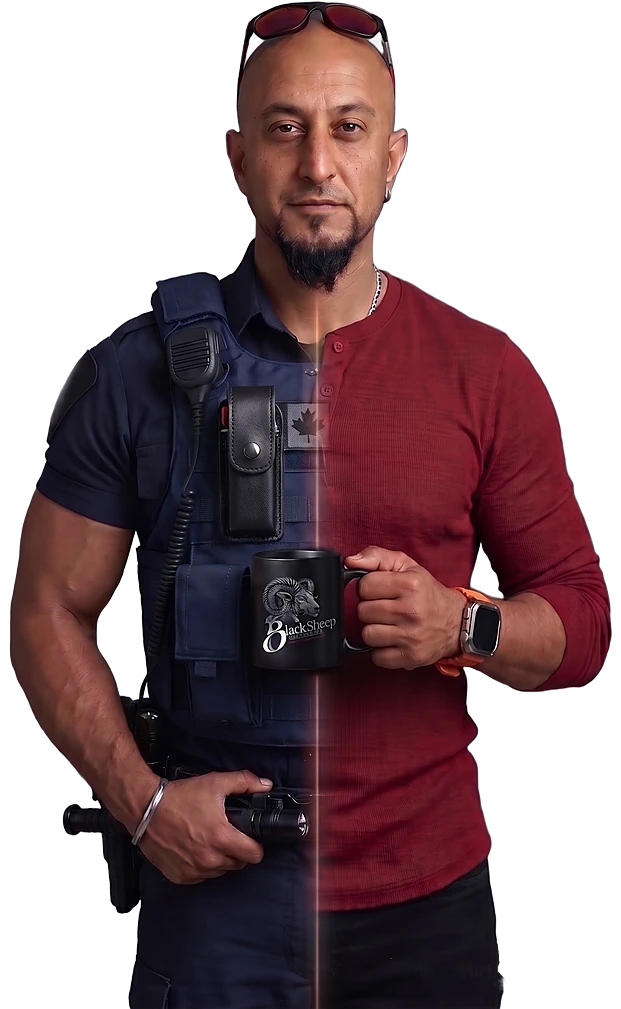
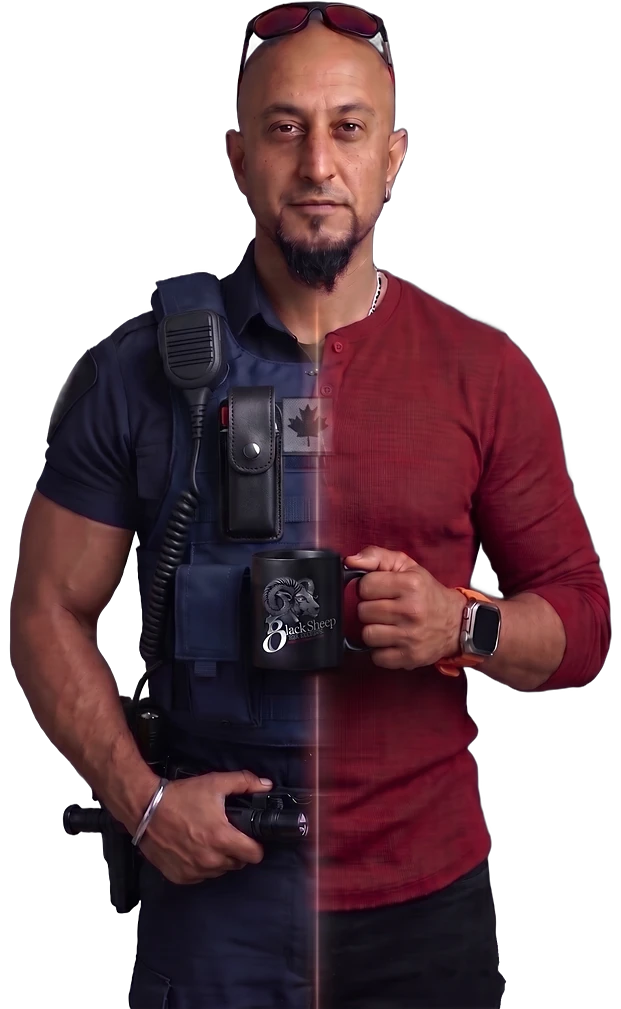
Hero: thicker shoulder radio and coil cord, slightly larger Canada flag patch
Claude-Session: https://claude.ai/code/session_01MhApnvSG27p9juGpCCFrhf

diff --git a/index.html b/index.html
@@ -29,7 +29,7 @@
     <div class="glow"></div><div class="ring r2"></div><div class="ring"></div>
     <p class="name" aria-hidden="true"><span class="nN">Nick</span> <i>Mehra</i></p>
     <span class="tagL">Enforcement</span><span class="tagR">Creative</span>
-    <img class="figure" src="/img/nick-hero.webp?v=8" alt="Nick Mehra, half in an enforcement uniform and half in a red henley, holding a BlackSheep Digital Works coffee mug" width="621" height="1009">
+    <img class="figure" src="/img/nick-hero.webp?v=9" alt="Nick Mehra, half in an enforcement uniform and half in a red henley, holding a BlackSheep Digital Works coffee mug" width="621" height="1009">
     <div class="front">
       <p>Owner &amp; Creative Director, BlackSheep Digital Works</p>
       <h1>Almost two decades behind a badge. Now behind a lens.</h1>
